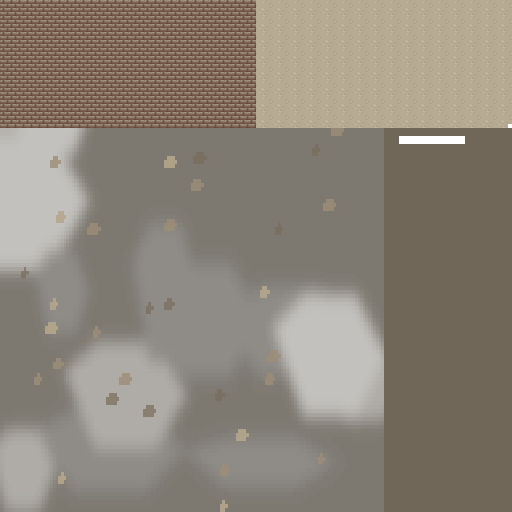
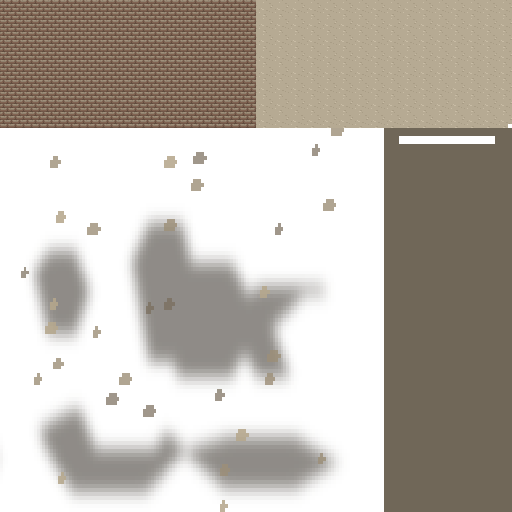
Keep only dark wreck ground patches and lengthen thin border dashes

diff --git a/src/building_lowpoly.js b/src/building_lowpoly.js
@@ -32,7 +32,7 @@
     wreck:{tint:0xb3a89e,roofTint:0xc5c2bc,debris:0x8f857a,beam:0x7d8b95,top:0xaa9b88,highlight:0xc2b29a,shadow:0x8c7d6b,mortar:0xaa9b88,ink:0x000000}};
   // The light of a wreck's inner wall faces and rubble floor: the middle cel step.
   const WRECK_INSIDE_LIGHT=.7;
-  const WRECK_BORDER={color:0x413b32,alpha:.72,width:5,period:64,maskX:400,maskY:136};
+  const WRECK_BORDER={color:0x413b32,alpha:.72,width:2.5,period:94,maskX:400,maskY:136};
   const mix=(a,b,t)=>{const c=i=>Math.round(((a>>i)&255)*(1-t)+((b>>i)&255)*t);return (c(16)<<16)|(c(8)<<8)|c(0);};
   const hash=(x,y)=>{let h=(x*374761393+y*668265263)|0;h=(h^(h>>>13))*1274126177;return ((h^(h>>>16))>>>0)/4294967296;};
   // Cell order of assets/Objects/BuildingMaterials/reference-materials-v3.png.
@@ -1074,9 +1074,9 @@
     ctx.imageSmoothingEnabled=false;
     ctx.fillStyle='#968a76';ctx.fillRect(0,0,512,128);
     ctx.fillStyle='#b6aa93';ctx.fillRect(256,0,256,128);
-    ctx.fillStyle='rgba(76,70,59,0.72)';ctx.fillRect(0,128,512,384);
-    ctx.clearRect(399,136,66,8);ctx.fillStyle='#ffffff';
-    for(const [x,w] of [[0,7],[13,5],[26,8],[39,6],[52,4],[64,1]])ctx.fillRect(400+x,136,w,8);
+    ctx.clearRect(0,128,512,384);
+    ctx.clearRect(399,136,96,8);ctx.fillStyle='#ffffff';
+    for(const [x,w] of [[0,14],[20,10],[38,16],[59,12],[78,8],[94,1]])ctx.fillRect(400+x,136,w,8);
     ctx.fillStyle='#ffffff';ctx.fillRect(508,124,4,4);
     tex.refresh();tex.setFilter(Phaser.Textures.FilterMode.NEAREST);return tex;
   }

diff --git a/sw.js b/sw.js
@@ -1,7 +1,7 @@
 // Content-addressed resources survive deployments. HTML stays network-first;
 // tiles retain their independent offline cache. Keep two shell generations so
 // old tabs can still request their exact script URLs after a worker update.
-const SHELL_VERSION = 'shell-0843a9e3';
+const SHELL_VERSION = 'shell-0fd99efc';
 
 const RESOURCE_CACHE = 'terracart-resources-v1';
 const RESOURCE_MANIFEST = './__terracart_resource_manifest__';
@@ -374,7 +374,7 @@ const ASSET_HASHES = {
   "assets/Objects/BuildingMaterials/approved-materials-v1.png": "d4596946",
   "assets/Objects/BuildingMaterials/reference-materials-v3.png": "38fc2ff3",
   "assets/Objects/BuildingMaterials/wreck-floor-cel.png": "8a303ad2",
-  "assets/Objects/BuildingMaterials/wreck-plinth.png": "b25d5594",
+  "assets/Objects/BuildingMaterials/wreck-plinth.png": "e24db484",
   "assets/Objects/Castle/FDR/atlas.png": "6050c667",
   "assets/Objects/Castle/FDR/floor.png": "3c5de081",
   "assets/Objects/Castle/tower_shapes.png": "0b7d9e6d",

diff --git a/index.html b/index.html
@@ -3357,7 +3357,7 @@
   <script src="src/authored_roof_palette.js?v=8c7edfba"></script>
   <script src="src/authored_buildings.js?v=53a52af1"></script>
   <script src="src/authored_building_renderer.js?v=8da48b5e"></script>
-  <script src="src/building_lowpoly.js?v=d9282cd7"></script>
+  <script src="src/building_lowpoly.js?v=791337d4"></script>
   <script src="src/fdr_castle_layout.js?v=39a4988f"></script>
   <script src="src/fdr_castle_geometry.js?v=166dd87d"></script>
   <script src="src/fdr_castle_canvas.js?v=61b2dd7d"></script>

diff --git a/tools/build_wreck_plinth.py b/tools/build_wreck_plinth.py
@@ -37,31 +37,21 @@ for y in range(0, 128, 16):
 # Keep the study's 3D masonry, but simplify the ground into broad tarnish
 # and a sparse scatter of chips from the same warm stone palette. No tiled
 # grain, red brick flecks, or tiny alternating highlights remain.
-floor = Image.new('RGBA', (240, 180), (95, 87, 74, 128))
-draw = ImageDraw.Draw(floor)
+# Only the dark grime remains over terrain; the former grey base and lighter
+# worn patches are transparent. Blur the mask alone to avoid dark edge halos.
+grime = Image.new('L', (240, 180), 0)
+draw = ImageDraw.Draw(grime)
 rng = random_values(87)
 for i in range(18):
     x, y = int(next(rng) * 240), int(next(rng) * 180)
     w, h = 10 + int(next(rng) * 22), 6 + int(next(rng) * 12)
-    # Grime and worn areas expose more of the underlying terrain. Keep the
-    # variation broad and low contrast, with no fine noise or hard patch edges.
-    shade = (87, 79, 67, 100) if i % 2 else (98, 90, 76, 60 + i % 4 * 10)
-    if i % 2:
-        shade = tuple(round(v * .8) for v in shade[:3]) + (shade[3],)
     draw.polygon([(x-w, y-h//2), (x-w//2, y-h), (x+w//2, y-h),
-                  (x+w, y), (x+w//2, y+h), (x-w//2, y+h)], fill=shade)
-floor = floor.filter(ImageFilter.GaussianBlur(2))
-# Adjust only the background before compositing the stone scatter.
-r, g, b, alpha = floor.split()
-floor = Image.merge('RGBA', (
-    r.point(lambda v: round(v * .8)),
-    g.point(lambda v: round(v * .8)),
-    b.point(lambda v: round(v * .8)),
-    alpha.point(lambda v: min(255, round(round(v * 1.2) * 1.2))),
-))
+                  (x+w, y), (x+w//2, y+h), (x-w//2, y+h)],
+                 fill=144 if i % 2 else 0)
+floor = Image.new('RGBA', grime.size, (56, 50, 42, 0))
+floor.putalpha(grime.filter(ImageFilter.GaussianBlur(2)))
 
-# These are restrained mixtures of the wall cap, mortar and brown ground.
-# Untouched ground stays 185/255 (73%); the broad worn patches are translucent.
+# Keep the existing warm painted chips over the transparent ground.
 styles = {
     'quiet': (90, 2, 4, [(151, 139, 117, 185), (130, 118, 99, 170), (100, 90, 75, 150)]),
     'buried': (65, 3, 6, [(132, 121, 102, 145), (120, 109, 92, 145), (105, 95, 80, 145)]),
@@ -87,12 +77,12 @@ floor = floor.crop((46, 40, 191, 137)).resize((384, 384), Image.Resampling.NEARE
 atlas.paste(floor, (0, 128))
 # Shared border mask: one repeating strip replaces individual dash geometry.
 # White RGB lets the renderer tint the border independently of the wall palette.
-dash = Image.new('RGBA', (66, 8), (255, 255, 255, 0))
+dash = Image.new('RGBA', (96, 8), (255, 255, 255, 0))
 draw = ImageDraw.Draw(dash)
-for start, end in [(0, 7), (13, 18), (26, 34), (39, 45), (52, 56)]:
+for start, end in [(0, 14), (20, 30), (38, 54), (59, 71), (78, 86)]:
     draw.rectangle((start + 1, 0, end, 7), fill='white')
-# Left padding repeats pixel63 (transparent); right repeats pixel0 (opaque).
-draw.rectangle((65, 0, 65, 7), fill='white')
+# Left padding repeats pixel93 (transparent); right repeats pixel0 (opaque).
+draw.rectangle((95, 0, 95, 7), fill='white')
 atlas.paste(dash, (399, 136))
 ImageDraw.Draw(atlas).rectangle((508, 124, 511, 127), fill='white')
 atlas.save(OUT)

diff --git a/docs/art/lowpoly-building-styles.md b/docs/art/lowpoly-building-styles.md
@@ -176,8 +176,8 @@ fallen blocks are 2–4 units tall; their count scales with footprint area up to
 speckled caps, and a restrained ground scatter using the same warm stone
 palette. Broad tarnish patches replace the study’s fine tiled grain and red
 brick flecks. The generator also supports buried-rubble and worn-ground previews.
-A five-unit brown border follows the footprint at 72% opacity. A shared
-64-unit alpha-mask strip supplies broken dashes with a building-seeded phase,
+A 2.5-unit brown border follows the footprint at 72% opacity. A shared
+94-unit alpha-mask strip supplies 8–16-unit dashes and 5–8-unit gaps with a building-seeded phase,
 replacing individual dash polygons without a custom shader or per-building bake.
 All profiles use the shared mask; their masonry palettes remain independent.
 The border stays on the ground
@@ -185,11 +185,10 @@ beneath actors and masonry. Loose rubble uses the same clipped-corner
 footprints as the wall blocks, without sharp highlight strips. Their side
 vertices shade from 65% brightness at ground contact to unchanged brightness
 at the top, adding no geometry and leaving the lids unchanged.
-The subdued brown base has alpha 185/255 (73%, byte-rounded). Broad, softly
-blended grime and worn patches reduce ground alpha to 86–144/255, exposing
-more underlying terrain without adding fine grain. The background alone is
-20% darker, with grime another 20% darker. Embedded stone scatter is 20%
-lighter and more opaque; raised masonry keeps its original palette.
+The ground has no continuous base: only soft dark grime patches (RGB 56/50/42,
+up to alpha 144/255) remain, with fully transparent gaps exposing terrain.
+Embedded stone scatter keeps its brighter palette and opacity; raised masonry
+keeps its original palette.
 Sparse ground chips are composited separately, while raised
 masonry stays opaque. The WebGL overlay must not paint an opaque floor beneath
 this atlas. Ground follows the exact triangulated footprint and sorts below

diff --git a/docs/design/rendering.md b/docs/design/rendering.md
@@ -364,8 +364,8 @@ fallen blocks are 2–4 units tall; their count scales with footprint area up to
 speckled caps, and a restrained ground scatter using the same warm stone
 palette. Broad tarnish patches replace the study’s fine tiled grain and red
 brick flecks. The generator also supports buried-rubble and worn-ground previews.
-A five-unit brown border follows the footprint at 72% opacity. A shared
-64-unit alpha-mask strip supplies broken dashes with a building-seeded phase,
+A 2.5-unit brown border follows the footprint at 72% opacity. A shared
+94-unit alpha-mask strip supplies 8–16-unit dashes and 5–8-unit gaps with a building-seeded phase,
 replacing individual dash polygons without a custom shader or per-building bake.
 All profiles use the shared mask; their masonry palettes remain independent.
 The border stays on the ground
@@ -373,11 +373,10 @@ beneath actors and masonry. Loose rubble uses the same clipped-corner
 footprints as the wall blocks, without sharp highlight strips. Their side
 vertices shade from 65% brightness at ground contact to unchanged brightness
 at the top, adding no geometry and leaving the lids unchanged.
-The subdued brown base has alpha 185/255 (73%, byte-rounded). Broad, softly
-blended grime and worn patches reduce ground alpha to 86–144/255, exposing
-more underlying terrain without adding fine grain. The background alone is
-20% darker, with grime another 20% darker. Embedded stone scatter is 20%
-lighter and more opaque; raised masonry keeps its original palette.
+The ground has no continuous base: only soft dark grime patches (RGB 56/50/42,
+up to alpha 144/255) remain, with fully transparent gaps exposing terrain.
+Embedded stone scatter keeps its brighter palette and opacity; raised masonry
+keeps its original palette.
 Sparse ground chips are composited separately, while raised
 masonry stays opaque. The WebGL overlay must not paint an opaque floor beneath
 this atlas. Ground follows the exact triangulated footprint and sorts below
